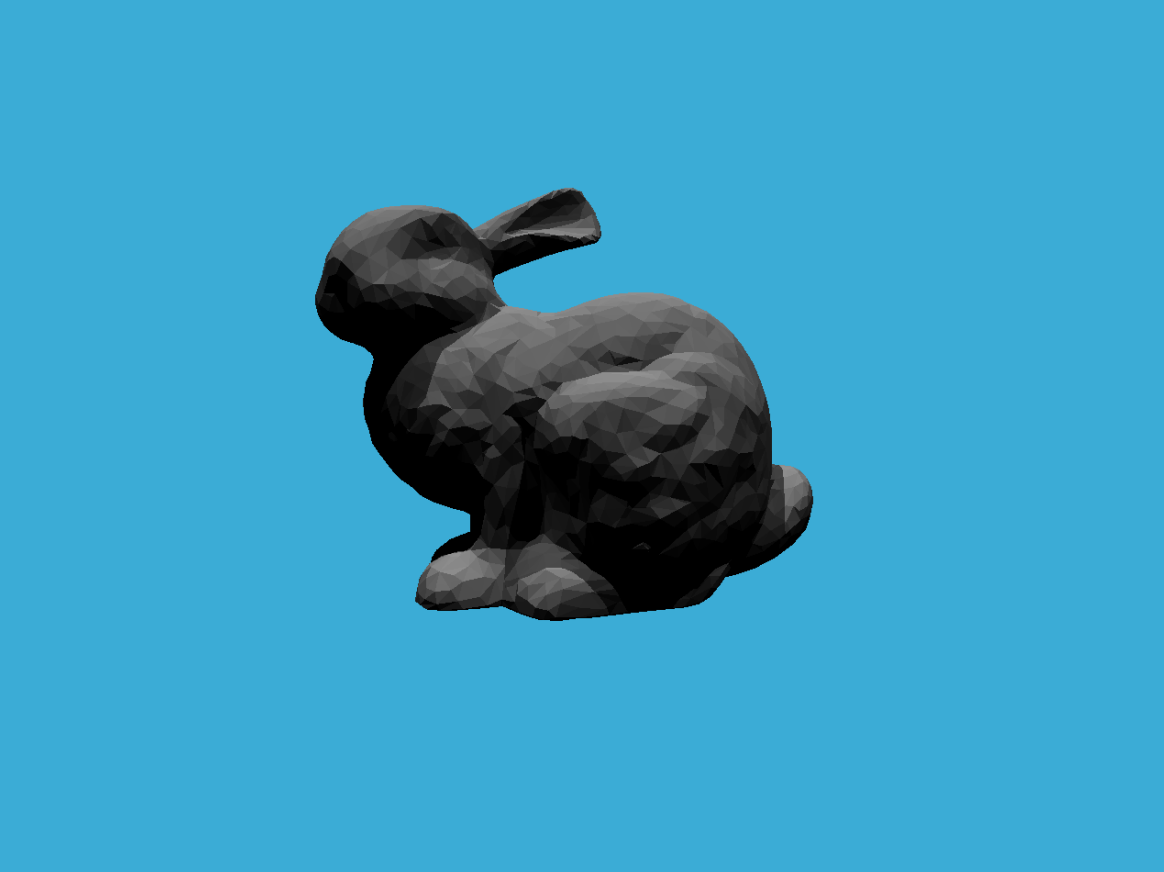
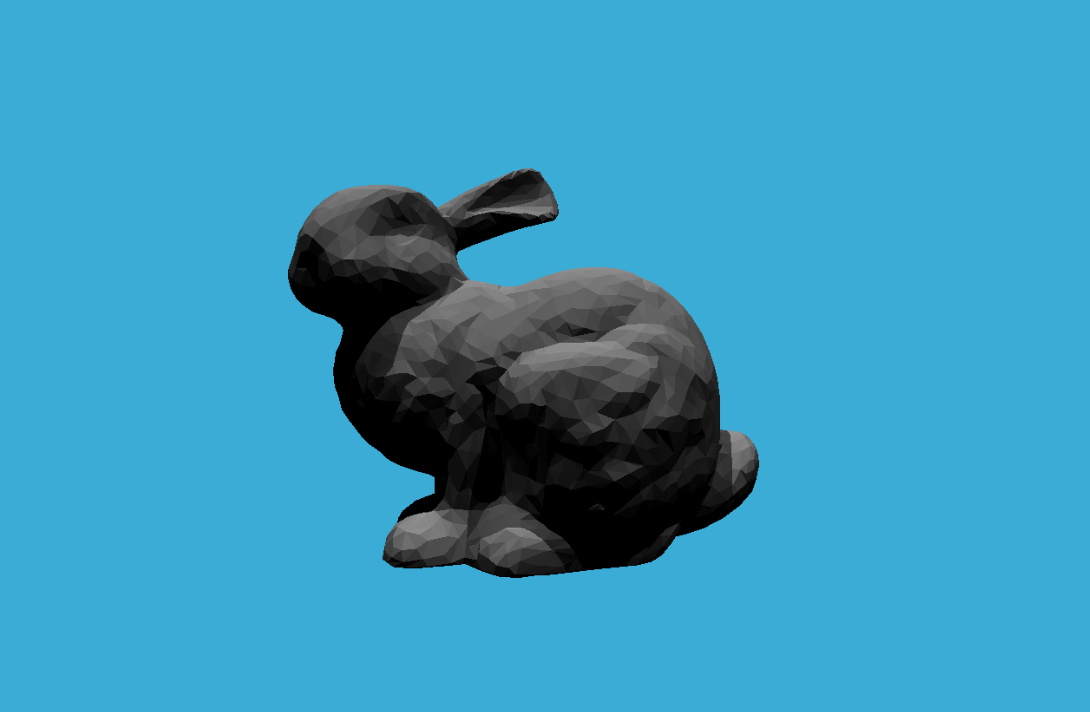
fix bug: 作业6 判断包围盒与光线是否相交计算错误

Changed region(s): [[0.2495, 0.2163, 0.7174, 0.8343]]

diff --git a/GAMES101/Homework6/Bounds3.hpp b/GAMES101/Homework6/Bounds3.hpp
@@ -97,19 +97,19 @@ inline bool Bounds3::IntersectP(const Ray& ray, const Vector3f& invDir,
     // dirIsNeg: ray direction(x,y,z), dirIsNeg=[int(x>0),int(y>0),int(z>0)], use this to simplify your logic
     // TODO test if ray bound intersects
     float tMinX = (pMin.x - ray.origin.x) * invDir[0];
-    float tMinY = (pMin.x - ray.origin.y) * invDir[1];
-    float tMinZ = (pMin.x - ray.origin.z) * invDir[2];
+    float tMinY = (pMin.y - ray.origin.y) * invDir[1];
+    float tMinZ = (pMin.z - ray.origin.z) * invDir[2];
 
     float tMaxX = (pMax.x - ray.origin.x) * invDir[0];
-    float tMaxY = (pMax.x - ray.origin.y) * invDir[1];
-    float tMaxZ = (pMax.x - ray.origin.z) * invDir[2];
+    float tMaxY = (pMax.y - ray.origin.y) * invDir[1];
+    float tMaxZ = (pMax.z - ray.origin.z) * invDir[2];
 
     if (!dirIsNeg[0]) std::swap(tMinX, tMaxX);
     if (!dirIsNeg[1]) std::swap(tMinY, tMaxY);
     if (!dirIsNeg[2]) std::swap(tMinZ, tMaxZ);
 
     float tEnter = std::max(tMinX, std::max(tMinY, tMinZ));
-    float tExit = std::max(tMaxX, std::max(tMaxY, tMaxZ));
+    float tExit = std::min(tMaxX, std::min(tMaxY, tMaxZ));
 
     return tEnter < tExit && tExit >= 0;
 }
